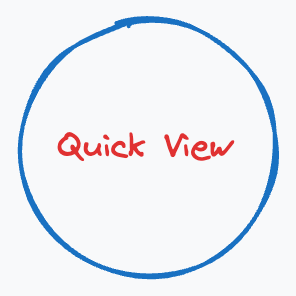
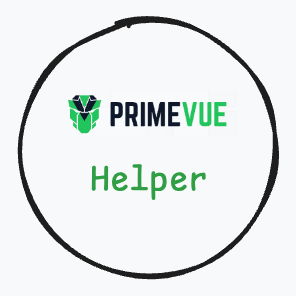
docs: rename to primevue-helper

Changed region(s): [[0.1824, 0.3041, 0.7905, 0.6689], [0.0608, 0.0304, 0.8209, 0.9426], [0.8209, 0.2128, 0.9426, 0.7905]]

diff --git a/README.md b/README.md
@@ -1,5 +1,5 @@
-# Quick View
-Quick View is a simple, lightweight, and easy-to-use `extension for Visual Studio Code` that improving your development efficiency.
+# Primevue Helper
+Primevue Helper is a simple, lightweight, and easy-to-use `extension for Visual Studio Code` that improving your development efficiency.
 
 ![alt text](./docs_assets/image.png)
 
@@ -7,12 +7,12 @@ Quick View is a simple, lightweight, and easy-to-use `extension for Visual Studi
 
 1. Open Visual Studio Code
 2. Click on the Extensions icon in the Activity Bar on the side of the window
-3. Search for "Quick View" and click Install
+3. Search for "Primevue Helper" and click Install
 
 ## Features
 
 ### Component Tree
-Click on the `Quick View` icon in the Activity Bar on the side of the window
+Click on the `Primevue Helper` icon in the Activity Bar on the side of the window
 
 you can see a tree of components.
 
@@ -24,14 +24,19 @@ Select the component you want to view. The API docs will be displayed in the pan
 ![alt text](./docs_assets/image-4.png)
 
 ### Insert Code Snippet
-Click on the `Insert Code Snippet` icon you can insert the code snippet to your current file.
+Click on the `Insert Code Snippet` icon in contextmenu you can insert the code snippet to your current file.
 
 ![alt text](./docs_assets/image-5.png)
 
+### Insert Props & Slots & Emits Snippet
+Click on props name will insert the prop snippet to focus position in current file.
+
+![alt text](./docs_assets/image-3.png)
+
 ### support
-- [x] primevue
-- [ ] ant design
-- [ ] vant
+- [x] display all components
+- [x] support api document
+- [x] support insert code snippet
 
 ## Contributing
 
